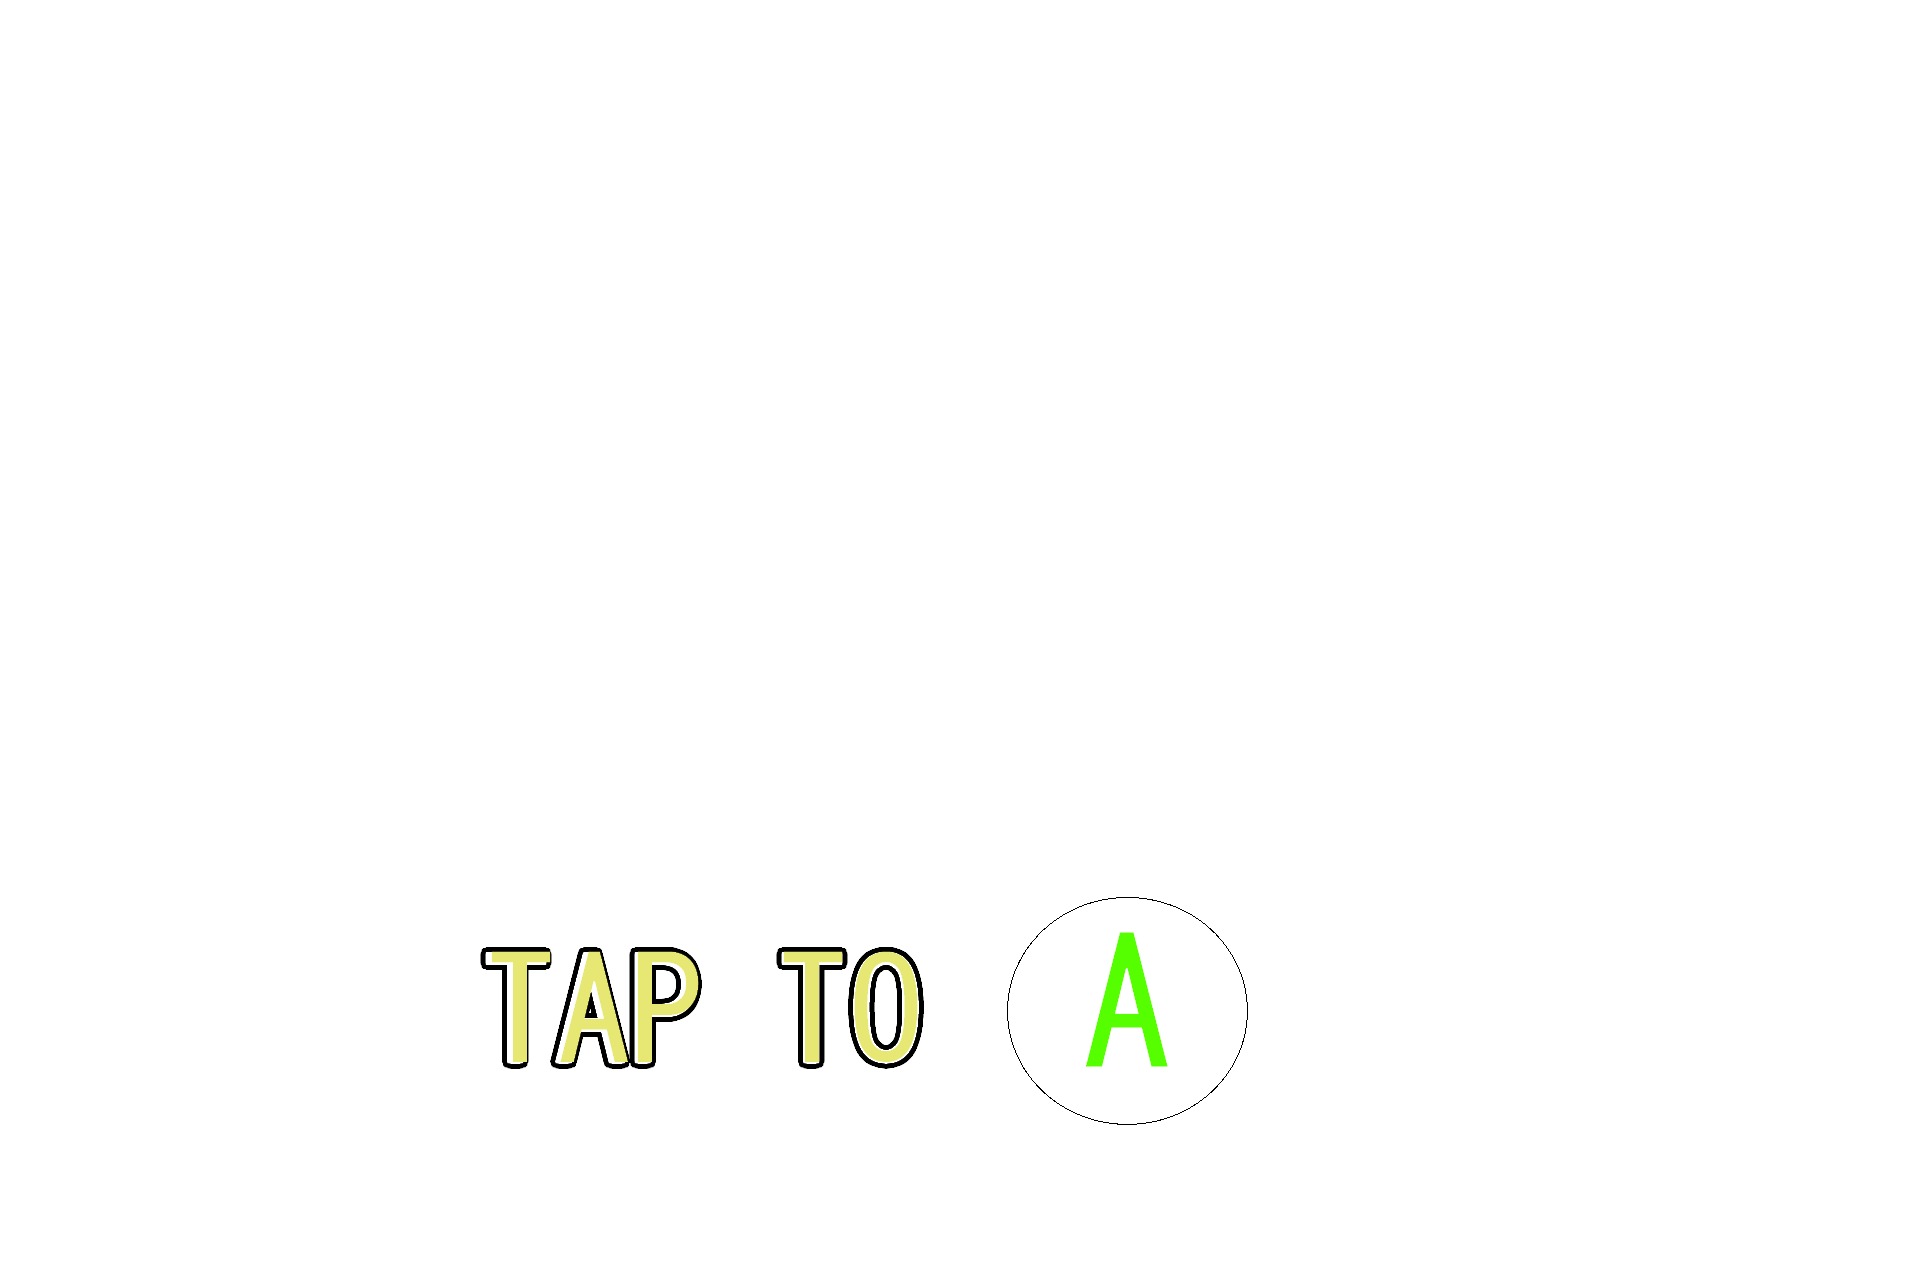
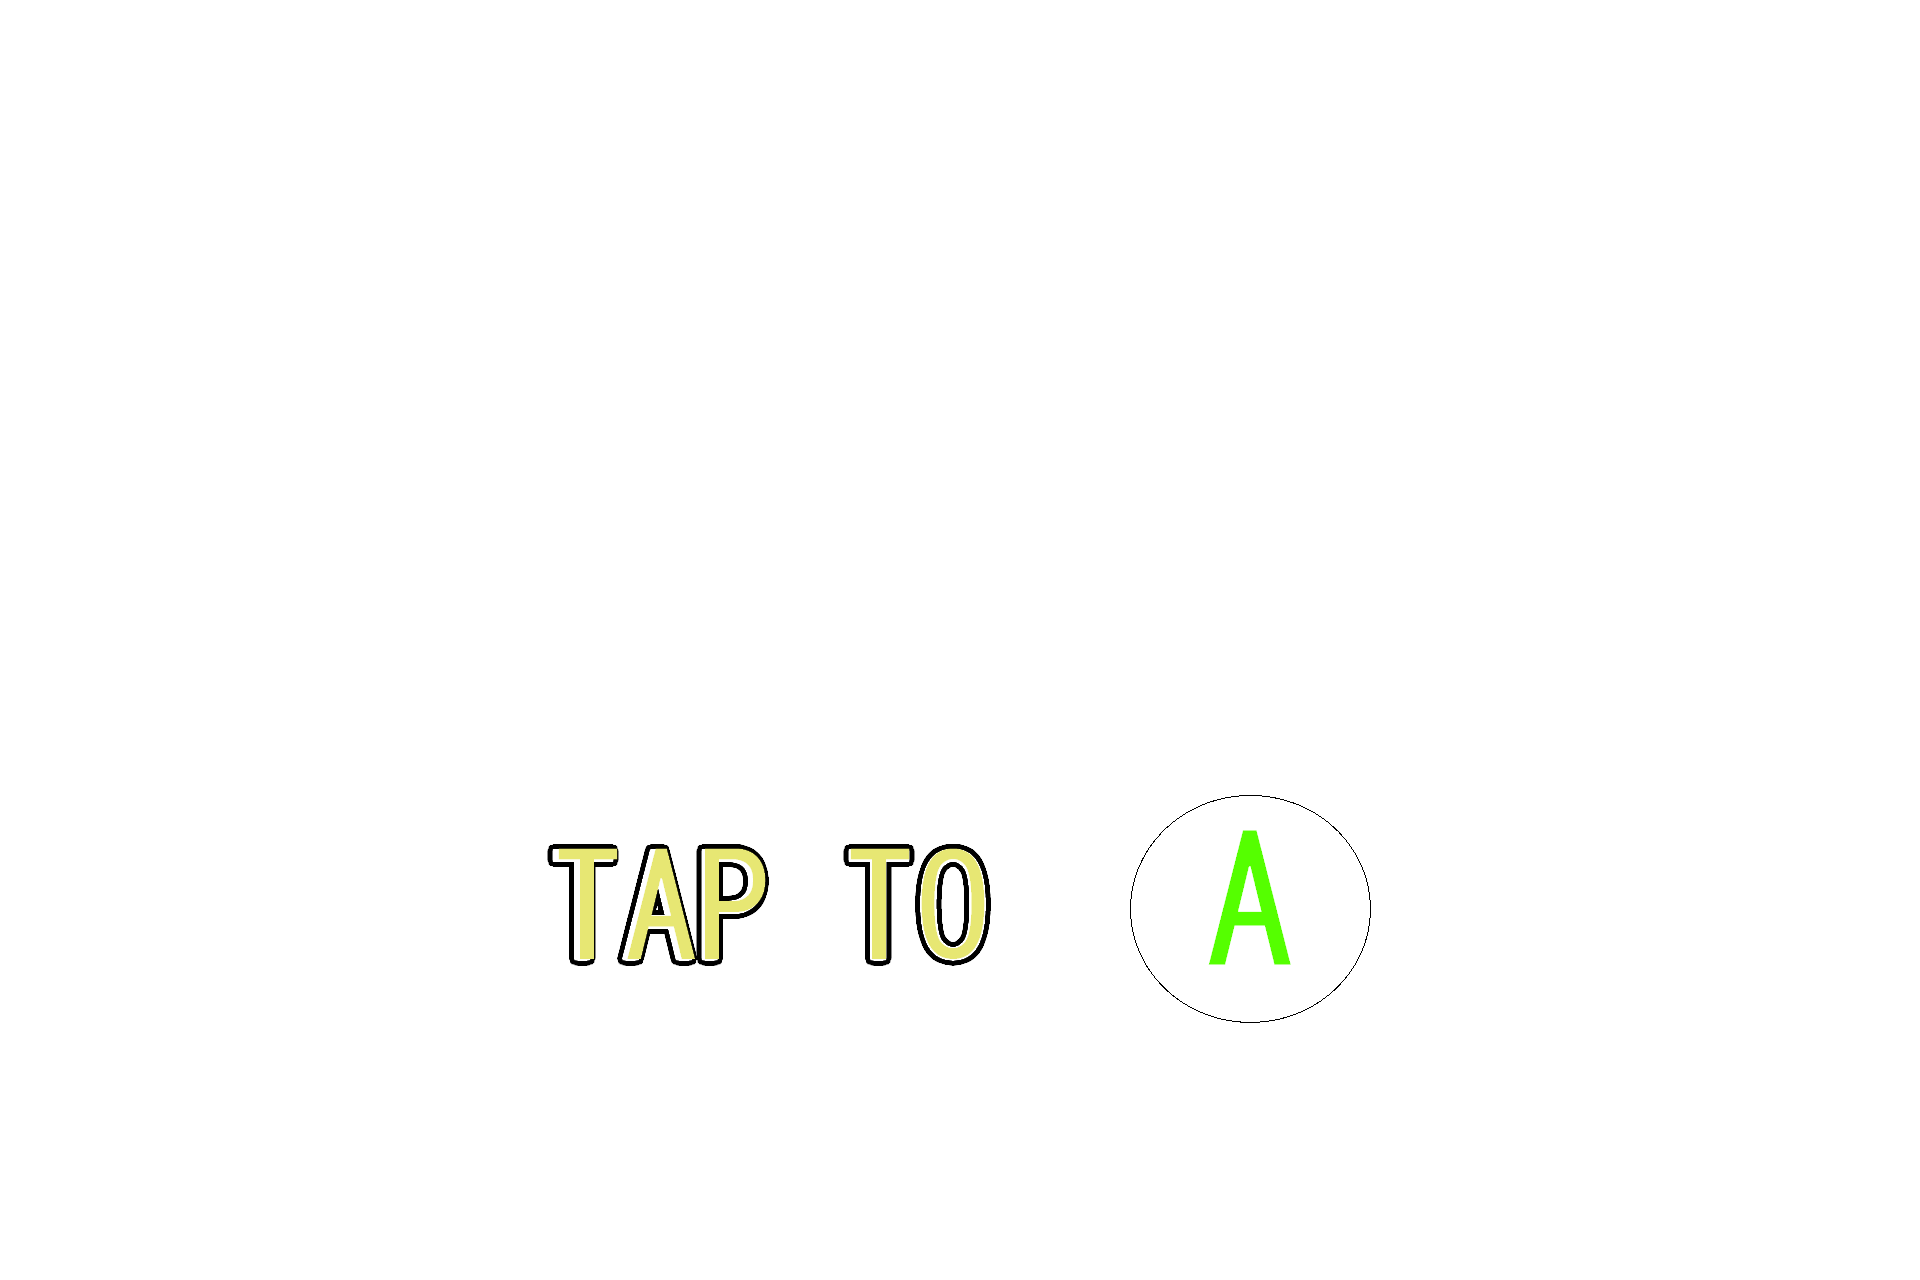
ゲームオーバーとクリアとタイトルのコントローラー用のUIに変換

diff --git a/project/game/scene/TitleScene.cpp b/project/game/scene/TitleScene.cpp
@@ -27,6 +27,7 @@
 #include "game/map/MapManager.h"
 #include"engine/utils/Level/LevelEditor.h"
 #include "engine/utils/EditorManager.h"
+#include <cmath>
 #include <cstdlib>
 
 #include "engine/graphics/SrvManager.h"
@@ -34,6 +35,38 @@
 
 using namespace VectorMath;
 using namespace MatrixMath;
+
+namespace {
+bool HasControllerPromptInput(Input* input) {
+	return input &&
+		input->GetJoystickState() &&
+		(input->PushJoystickButton(0xFFFF) ||
+		 input->PushLeftTrigger(0.25f) ||
+		 std::fabs(input->GetLeftStickX()) > 0.25f ||
+		 std::fabs(input->GetLeftStickY()) > 0.25f ||
+		 std::fabs(input->GetRightStickX()) > 0.25f ||
+		 std::fabs(input->GetRightStickY()) > 0.25f);
+}
+
+bool HasKeyboardPromptInput(Input* input) {
+	if (!input) {
+		return false;
+	}
+
+	const BYTE keys[] = {
+		DIK_SPACE, DIK_RETURN, DIK_ESCAPE,
+		DIK_W, DIK_A, DIK_S, DIK_D,
+		DIK_UP, DIK_DOWN, DIK_LEFT, DIK_RIGHT
+	};
+	for (BYTE key : keys) {
+		if (input->Pushkey(key)) {
+			return true;
+		}
+	}
+
+	return false;
+}
+}
 
 TitleScene::TitleScene() {}
 
@@ -145,6 +178,8 @@ void TitleScene::Initialize() {
 
 	// 操作説明の読み込み
 	operateSprite_ = Sprite::Create("resources/UI/TitleOperate.png", { screenW * 0.5f, screenH * 0.5f });
+	controllerOperateSprite_ = Sprite::Create("resources/UI/TitleOperateC.png", { screenW * 0.5f, screenH * 0.5f });
+	isControllerUiMode_ = Input::GetInstance()->GetJoystickState();
 
 	// モデル読み込み（カード）
 	ModelManager::GetInstance()->LoadModel("cardR", "resources/card", "CardR.obj");
@@ -209,6 +244,11 @@ void TitleScene::Update() {
 	}
 
 	Input* input = Input::GetInstance();
+	if (HasControllerPromptInput(input)) {
+		isControllerUiMode_ = true;
+	} else if (HasKeyboardPromptInput(input)) {
+		isControllerUiMode_ = false;
+	}
 
 
 
@@ -308,6 +348,11 @@ void TitleScene::Update() {
 		operateSprite_->SetSize(normalSize);
 		operateSprite_->SetPosition({ centerX+170, centerY });
 		operateSprite_->Update();
+	}
+	if (controllerOperateSprite_) {
+		controllerOperateSprite_->SetSize(normalSize);
+		controllerOperateSprite_->SetPosition({ centerX + 170, centerY });
+		controllerOperateSprite_->Update();
 	}
 
 	// SPACEでゲーム開始
@@ -441,8 +486,9 @@ void TitleScene::Draw(){
 	}
 
 	// 操作説明の描画
-	if (operateSprite_) {
-		operateSprite_->Draw();
+	Sprite* activeOperateSprite = isControllerUiMode_ ? controllerOperateSprite_.get() : operateSprite_.get();
+	if (activeOperateSprite) {
+		activeOperateSprite->Draw();
 	}
 
 	// エディタ用の出力設定

diff --git a/project/game/scene/TitleScene.h b/project/game/scene/TitleScene.h
@@ -18,6 +18,7 @@ class Sprite;
 class RenderTexture;
 class PostEffect;
 class MapManager;
+class Input;
 
 // タイトルシーン
 class TitleScene : public IScene {
@@ -123,5 +124,7 @@ private:
 	std::unique_ptr<Sprite> tutorialBlueSprite_ = nullptr;
 	std::unique_ptr<Sprite> tutorialWhiteSprite_ = nullptr;
 	std::unique_ptr<Sprite> operateSprite_ = nullptr;
+	std::unique_ptr<Sprite> controllerOperateSprite_ = nullptr;
+	bool isControllerUiMode_ = false;
 
 };
